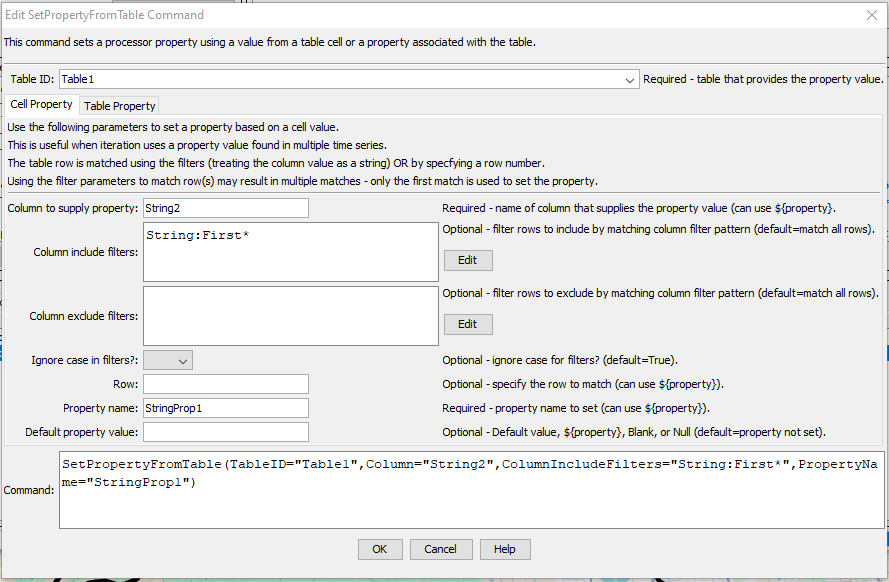
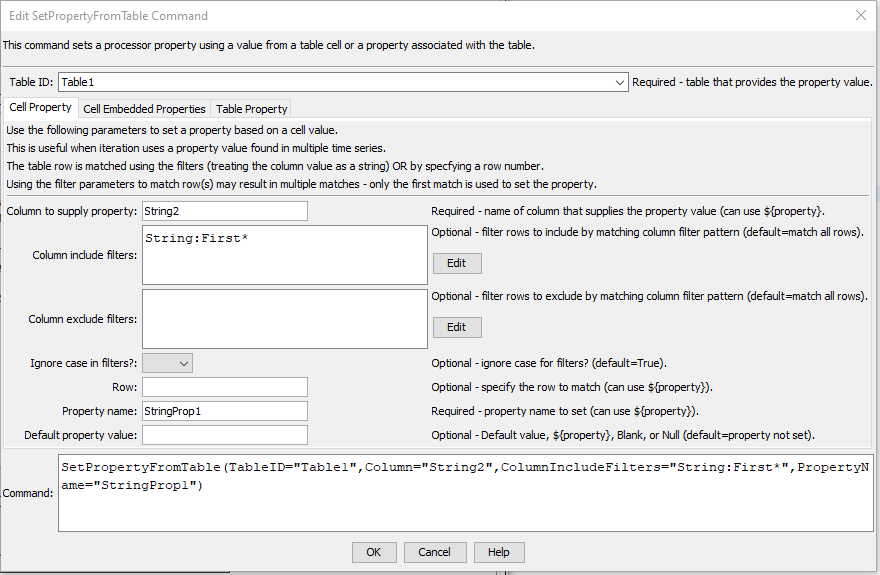
Add embedded properties to SetPropertyFromTable, issue #178

diff --git a/mkdocs-project/docs/command-ref/SetPropertyFromTable/SetPropertyFromTable.md b/mkdocs-project/docs/command-ref/SetPropertyFromTable/SetPropertyFromTable.md
@@ -1,6 +1,7 @@
 # TSTool / Command / SetPropertyFromTable #
 
 *   [Overview](#overview)
+    +   [Cell Embedded Properties](#cell-embedded-properties)
 *   [Command Editor](#command-editor)
 *   [Command Syntax](#command-syntax)
 *   [Examples](#examples)
@@ -11,21 +12,56 @@
 
 ## Overview ##
 
-The `SetPropertyFromTable` command sets the value of a property used by the command processor,
-using table data:
+The `SetPropertyFromTable` command sets the value of a property used by the command processor, using table data:
 
 *   **Table cell value:**
     +   Filters (or row number) are used to match one or more rows.
     +   The filters use simple string matching with `*` wildcard character.
-    +   **The first matched row is used to set the property.**
+    +   The first matched row is used to set the property.
+    +   If no row is matched then the property is not set.
+*   **Table cell string embedded property:**
+    +   First match a cell as described above.
+    +   Then decode and set embedded properties as per the [Cell Embedded Properties](#cell-embedded-properties) section.
+    +   If `PropertyName` is provided, also set the property to the cell contents without the properties text
+        (only supported for the `DoubleSlash` format).
 *   **Table property:**
-    +   **Number of rows:** Useful to check that results are as expected.
-    +   **Number of columns:** Useful to check that results are as expected.
+    +   **Number of rows:** Useful to check that a table size is as expected.
+    +   **Number of columns:** Useful to check that a table size is as expected.
 
 The properties will be available to subsequent commands that support using `${Property}` notation in parameters,
 for example to dynamically specify time series identifiers or input to commands.
 This command is useful in cases where iteration is processing data from a table using a
 [`For`](../For/For.md) command, in which case the property can be used in other commands.
+
+### Cell Embedded Properties ###
+
+There are cases when one or more properties may be encoded in a cell's text,
+for example, in database columns containing descriptive text.
+The following syntax is supported 
+using the `DecodeEmbeddedProperties=True` property and optionally `EmbeddedPropertyFormat`.
+All of the named properties will be decoded and set as string properties.
+Double or single quotes can be used for property values that contain spaces.
+URLs with query parameters that use an equal sign will be ignored as properties if not quoted
+and can be quoted to set as a value.
+
+#### Example `EmbeddedPropertyFormat=DoubleSlash` cell contents: ####
+
+```
+Some text // random text PropertyName1=PropertyValue1 PropertyName2="Property value with spaces and double quotes"
+Some text // random text PropertyName1 = PropertyValue1 PropertyName2 = "Property value with spaces and double quotes"
+Some text // random text PropertyName1 = PropertyValue1 PropertyName2 = 'Property value with spaces and double quotes'
+```
+
+If the `PropertyName` parameter is also specified, the associated property will be set to the cell's text prior to the delimiter.
+but only for the `DoubleSlash` format.
+
+#### Example `EmbeddedPropertyFormat=PropertyValue` Cell contents: ####
+
+```
+Some text random text PropertyName1=PropertyValue1 PropertyName2="Property value with spaces and double quotes"
+Some text random text PropertyName1 = PropertyValue1 PropertyName2 = "Property value with spaces and double quotes"
+Some text random text PropertyName1 = PropertyValue1 PropertyName2 = 'Property value with spaces and double quotes'
+```
 
 ## Command Editor ##
 
@@ -41,6 +77,14 @@ The following dialog is used to edit the command and illustrates the command syn
 
 **<p style="text-align: center;">
 `SetPropertyFromTable` Command Editor for Cell Parameters (<a href="../SetPropertyFromTable_cell.png">see full-size image</a>)
+</p>**
+
+**<p style="text-align: center;">
+![SetPropertyFromTable command editor for Cell embedded parameters](SetPropertyFromTable_cell_embedded.png)
+</p>**
+
+**<p style="text-align: center;">
+`SetPropertyFromTable` Command Editor for Cell Embedded Property Parameters (<a href="../SetPropertyFromTable_cell_embedded.png">see full-size image</a>)
 </p>**
 
 **<p style="text-align: center;">
@@ -70,10 +114,12 @@ Command Parameters
 ||`ColumnExcludeFilters`|Filters that exclude rows being copied, by matching column values:<br>`ColumnExcludeFilter1:FilterPattern1,ColumnExcludeFilter2:FilterPattern2`<br>Patterns can use `*` to indicate wildcards for matches.  Values are treated as strings for checks.  All patterns must be matched to exclude the row.  Can be specified using `${Property}`.|All rows are matched.|
 ||`IgnoreCase`|Whether the filter comparisons should ignore case (`True`) or consider case (`False`). | `True` |
 ||`Row`|The row number (1+) to match or `last` to match the last row in the table. | If not specified, use the column filters to match rows. |
-||`PropertyName`|The property name to be set.  Can be specified using `${Property}`.|None – must be specified.|
+||`PropertyName`|The property name to be set.  Can be specified using `${Property}`.  If `DecodedEmbeddedProperties=True`, property will be set to all text except the embedded property text. |None – must be specified.|
 ||`DefaultValue`|The default value to use if no table cell is matched:<br><ul><li>`Blank` – to use a blank string</li><li>`Null` – to use a null value</li><li>Specified value to set to a string value.</li></ul><br>Can be specified using `${Property}`.|Property is set to null.|
-|***Table Property***|`RowCountProperty`| The name of the property to set to the table row count. | |
-| |`ColumnCountProperty`| The name of the property to set to the table column count. | |
+|***Cell Embedded Properties***|`DecodeEmbedded`<br>`Properties`| Whether to set properties from [Cell Embedded Properties](#cell-embedded-properties):<ul><li>`False` - do not decode embedded properties</li><li>`True` - decode embedded properties.</li></ul> | `False` |
+| | `EmbeddedProperty`<br>`Format` | The format of embedded properties used if `DecodeEmbeddedProperties=True`: <ul><li>`DoubleSlash` - double slashes (`//`) at the end of the cell text followed by properties</li><li>`PropertyValue` - `Property=Value` strings anywhere in the text</li></ul> See the [Cell Embedded Properties](#cell-embedded-properties) documentation. | `DoubleSlash`|
+|***Table Property***|`RowCountProperty`| The name of the property to set to the complete table row count. | |
+| |`ColumnCountProperty`| The name of the property to set to the complete table column count. | |
 
 ## Examples ##
 

diff --git a/mkdocs-project/docs/appendix-release-notes/release-notes-15.md b/mkdocs-project/docs/appendix-release-notes/release-notes-15.md
@@ -18,6 +18,9 @@ Issues may also be included in other repositories that are TSTool components.
 
 *   ![bug](bug.png) [15.2.0] Update so that the TSTool user interface shows the progress of opening datastores.
 *   ![bug](bug.png) [15.2.0] Fix bug where right-clicking on a graph zooms in slightly when showing the popup menu.
+*   ![bug](bug.png) [15.2.0] Fix bugs in time series graph view:
+    +   The mouse tracker at the bottom of the graph window was not showing date/time to a precision <= second.
+        The tracker now handles date/time precision to nanosecond.
 *   ![bug](bug.png) [15.2.0] Fix bugs in time series table view related to irregular interval time series:
     +   An error creating the table view resulted in an empty window.
         Now, if an error occurs, a ***Problems*** button is shown and can be pressed to view problem details.
@@ -73,6 +76,9 @@ Issues may also be included in other repositories that are TSTool components.
     +   Add the `RunDiscovery` parameter to control whether commands in the command file run discovery when loaded.
     +   Change the default to not run discovery for the command file because interactive editing of
         the command file does not occur, will slow execution, and may result in warnings and errors that are irrelevant
+*   ![change](change.png) [15.2.0] Update the [`SetPropertyFromTable`](../command-ref/SetPropertyFromTable/SetPropertyFromTable.md) command:
+    +   Fully enable the `IgnoreCase` parameter (the editor did not properly handle).
+    +   Add the `DecodeEmbeddedProperties` and `EmbeddedPropertyFormat` parameters to decode properties embedded in cell text.
 *   ![change](change.png) [15.2.0] Update the [`StartLog`](../command-ref/StartLog/StartLog.md) command:
     +   Change so that the default `.log` extension is added only after property expansion.
     +   Change so that a log file specified with a property does not result in problem indicator when a command file is loaded. 

diff --git a/mkdocs-project/docs/appendix-release-notes/release-notes.md b/mkdocs-project/docs/appendix-release-notes/release-notes.md
@@ -42,7 +42,7 @@ TSTool Version History Summary (most current at top)
 
 |**TSTool Version(s)**&nbsp;&nbsp;&nbsp;&nbsp;&nbsp;&nbsp;&nbsp;&nbsp;&nbsp;&nbsp;&nbsp;&nbsp;&nbsp;&nbsp;&nbsp;&nbsp;&nbsp;&nbsp;&nbsp;&nbsp;|**Summary of Major Changes in Version**|**Release Date**|
 |--|--|--|
-|[15.2.0](release-notes-15.md)|Feature release to improve plugin and data visualization features. | 2025-12-29 |
+|[15.2.0](release-notes-15.md)|Feature release to improve plugin and data visualization features. | 2025-12-31 |
 |[15.1.0](release-notes-15.md)|Feature release to remove Reclamation HDB features, since there is now a Reclamation HDB plugin. | 2025-04-16 |
 |[15.0.0](release-notes-15.md)|Major release to update from Java 8 to Java 11. Add file, plugin, and TSTool installation managers. | 2025-03-27 |
 |[14.10.0](release-notes-14.md)|Feature release with many enhancements to support advanced workflows. | 2025-02-07 |
